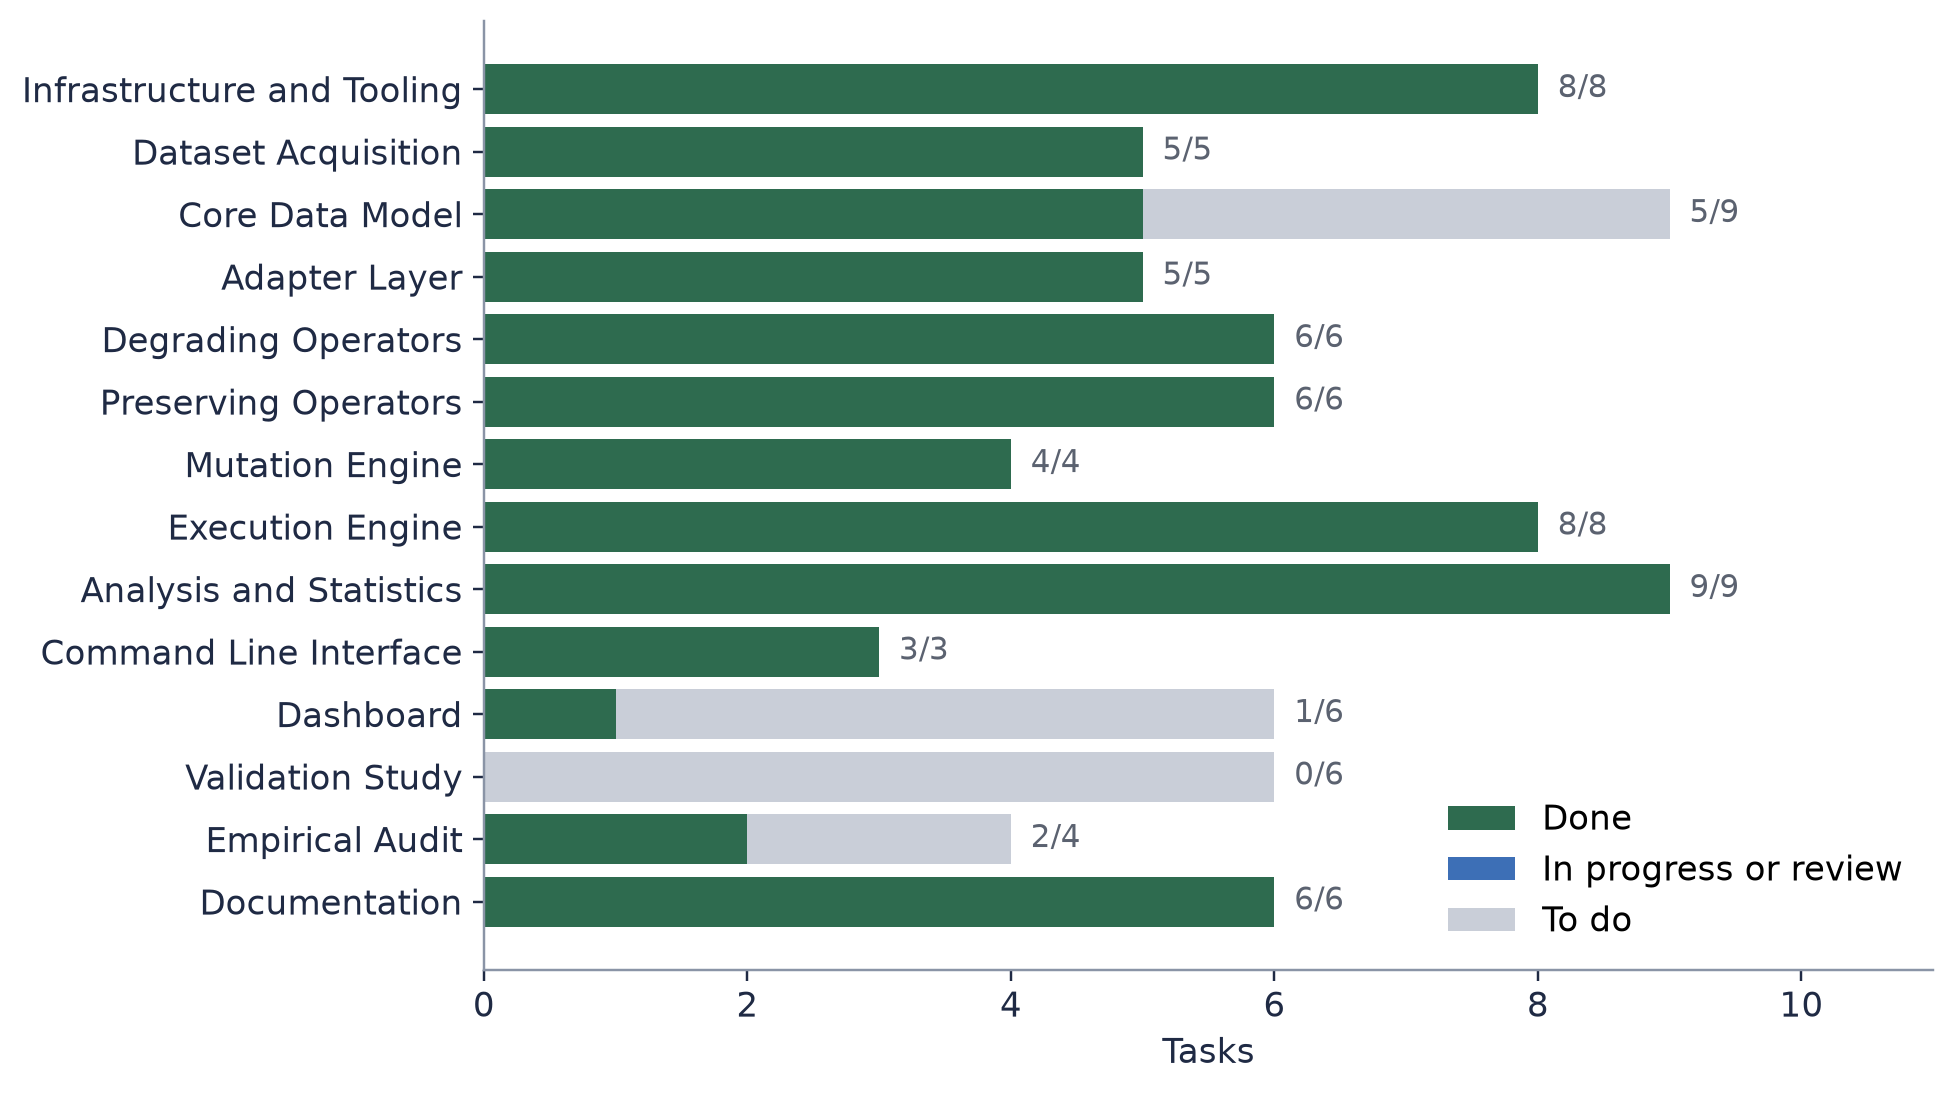
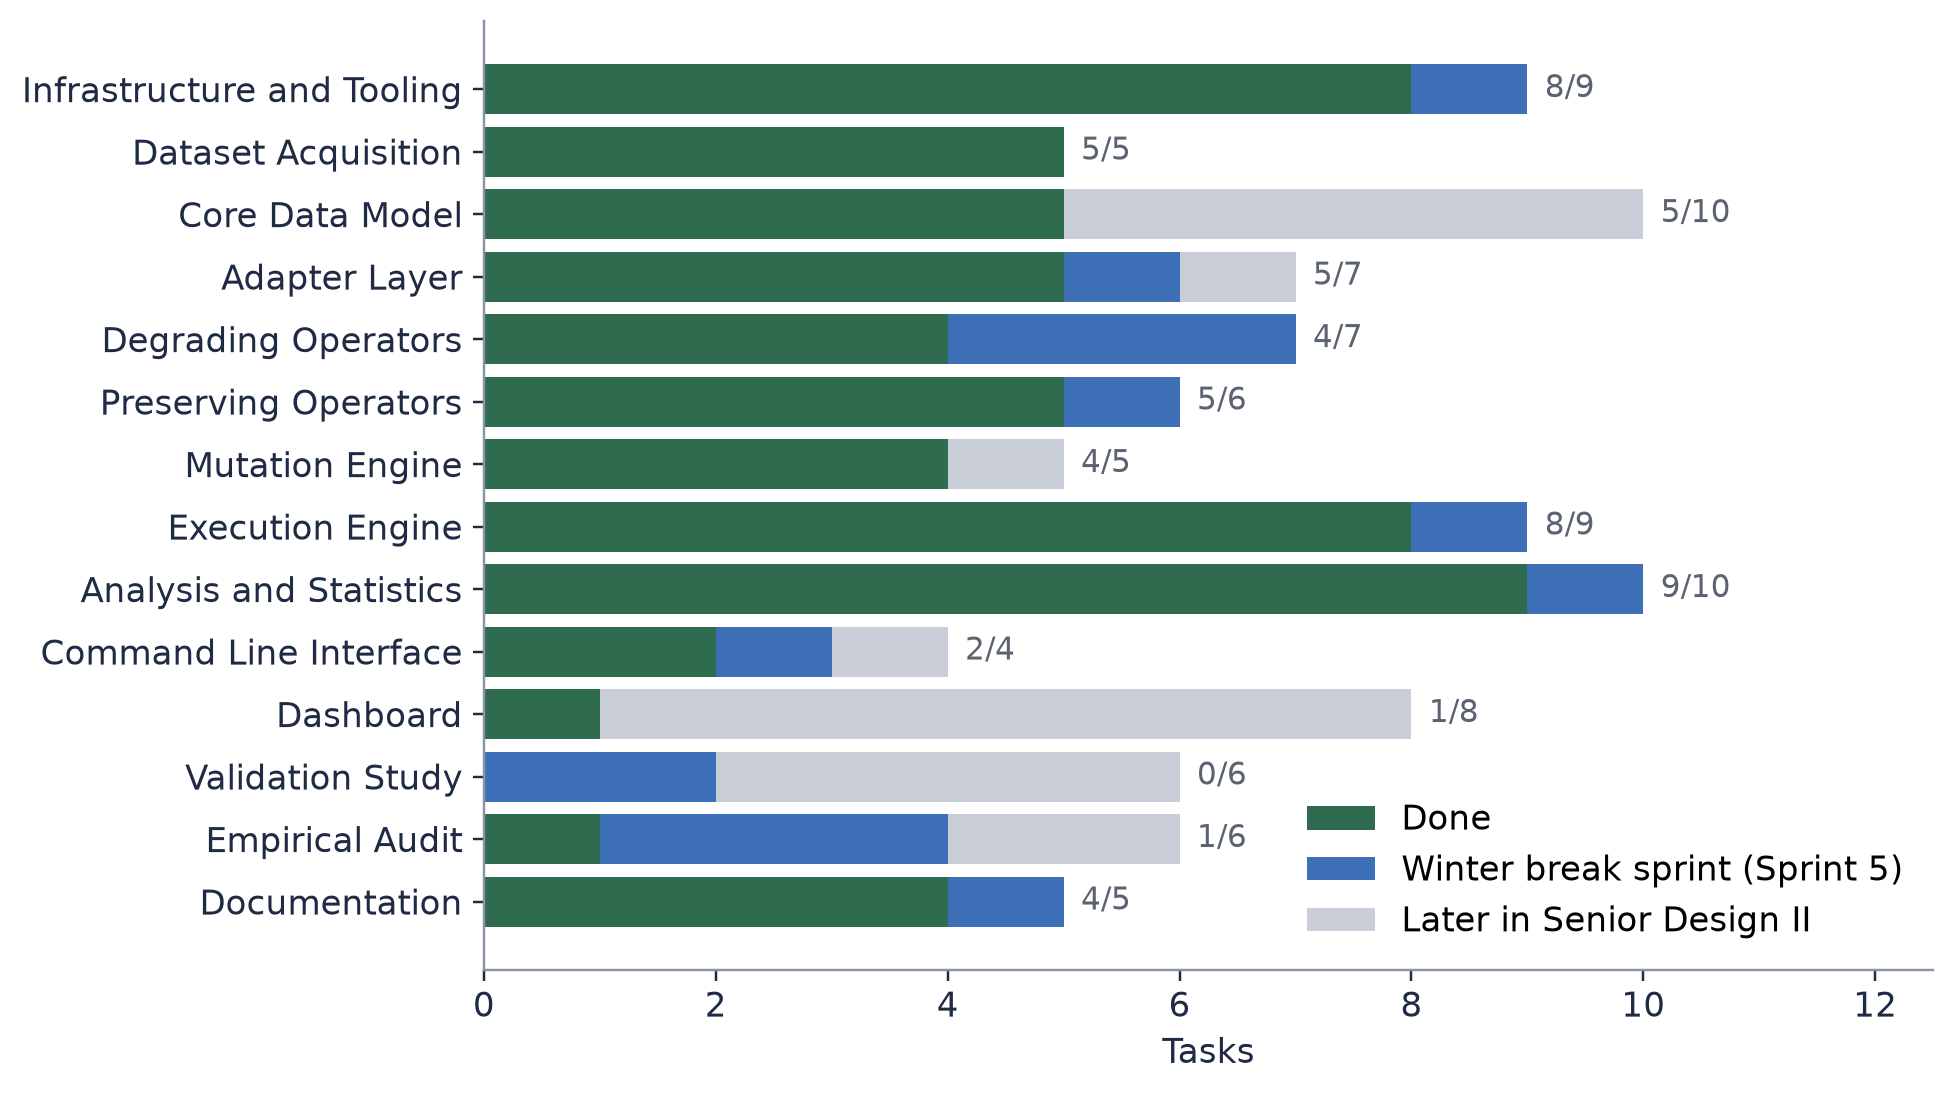
docs(fdd): charts for the winter break sprint (MTLJ-70)
Sprint 4 finishes 14 items (57 points); the pilot follow-ups and the
full audit move to Sprint 5, the winter break sprint (Jira export of
2026-11-22, 97 tasks).

diff --git a/docs/fdd/charts/make_charts.py b/docs/fdd/charts/make_charts.py
@@ -31,21 +31,21 @@ def save(fig, name):
 
 
 # --- Epic status (tasks per epic: done, active, to do) as of 2026-11-22 ---------------------
-EPICS = [
-    ("Infrastructure and Tooling", 8, 0, 0),
+EPICS = [  # (name, done by end of SD1, winter break sprint, later in SD2), Jira export 2026-11-22
+    ("Infrastructure and Tooling", 8, 1, 0),
     ("Dataset Acquisition", 5, 0, 0),
-    ("Core Data Model", 5, 0, 4),
-    ("Adapter Layer", 5, 0, 0),
-    ("Degrading Operators", 6, 0, 0),
-    ("Preserving Operators", 6, 0, 0),
-    ("Mutation Engine", 4, 0, 0),
-    ("Execution Engine", 8, 0, 0),
-    ("Analysis and Statistics", 9, 0, 0),
-    ("Command Line Interface", 3, 0, 0),
-    ("Dashboard", 1, 0, 5),
-    ("Validation Study", 0, 0, 6),
-    ("Empirical Audit", 2, 0, 2),
-    ("Documentation", 6, 0, 0),
+    ("Core Data Model", 5, 0, 5),
+    ("Adapter Layer", 5, 1, 1),
+    ("Degrading Operators", 4, 3, 0),
+    ("Preserving Operators", 5, 1, 0),
+    ("Mutation Engine", 4, 0, 1),
+    ("Execution Engine", 8, 1, 0),
+    ("Analysis and Statistics", 9, 1, 0),
+    ("Command Line Interface", 2, 1, 1),
+    ("Dashboard", 1, 0, 7),
+    ("Validation Study", 0, 2, 4),
+    ("Empirical Audit", 1, 3, 2),
+    ("Documentation", 4, 1, 0),
 ]
 
 
@@ -55,20 +55,20 @@ def epic_status():
     d, a, t = (np.array([e[i] for e in EPICS][::-1]) for i in (1, 2, 3))
     y = np.arange(len(names))
     ax.barh(y, d, color=DONE, label="Done")
-    ax.barh(y, a, left=d, color=ACTIVE, label="In progress or review")
-    ax.barh(y, t, left=d + a, color=TODO, label="To do")
+    ax.barh(y, a, left=d, color=ACTIVE, label="Winter break sprint (Sprint 5)")
+    ax.barh(y, t, left=d + a, color=TODO, label="Later in Senior Design II")
     for i in range(len(names)):
         ax.text(d[i] + a[i] + t[i] + 0.15, i, f"{d[i]}/{d[i] + a[i] + t[i]}", va="center", fontsize=10, color=MUTED)
     ax.set_yticks(y, names)
     ax.set_xlabel("Tasks")
-    ax.set_xlim(0, 11)
+    ax.set_xlim(0, 12.5)
     ax.spines[["top", "right"]].set_visible(False)
     ax.legend(loc="lower right", frameon=False)
     save(fig, "chart_epics.png")
 
 
 # --- Sprint velocity -------------------------------------------------------------------
-SPRINTS = [("Sprint 1", 41, 26), ("Sprint 2", 89, 52), ("Sprint 3", 83, 76), ("Sprint 4", 94, 81)]
+SPRINTS = [("Sprint 1", 41, 26), ("Sprint 2", 89, 52), ("Sprint 3", 83, 76), ("Sprint 4", 94, 57)]
 
 
 def velocity():
@@ -94,10 +94,10 @@ TIMELINE = [
     ("S1", date(2026, 9, 29), date(2026, 10, 13), "done", "Setup, corpus survey, interfaces, feasibility study"),
     ("S2", date(2026, 10, 13), date(2026, 10, 27), "done", "Models, loader, corpus freeze, adapters, first operators"),
     ("S3", date(2026, 10, 27), date(2026, 11, 10), "done", "DeepEval adapter, runner, cache, retries, all core statistics, CLI"),
-    ("S4", date(2026, 11, 10), date(2026, 11, 24), "done", "Filter, resume, limits, Ollama, Ragas, pilots, FDD"),
-    ("S5", date(2026, 11, 24), date(2026, 12, 8), "now", "Pilot fixes, database schema, validation protocol"),
-    ("S6", date(2027, 1, 12), date(2027, 1, 26), "sd2", "First full audit, results API, Nuxt scaffold, sampling tool"),
-    ("S7", date(2027, 1, 26), date(2027, 2, 9), "sd2", "Findings write-up, profile view, first review round"),
+    ("S4", date(2026, 11, 10), date(2026, 11, 24), "done", "Ragas, pilots, negation, Ollama, resumption, rate limits, FDD"),
+    ("S5", date(2026, 12, 7), date(2027, 1, 11), "now", "Winter break: pilot fixes, first full audit, findings"),
+    ("S6", date(2027, 1, 12), date(2027, 1, 26), "sd2", "Database, results API, Nuxt scaffold, presentation"),
+    ("S7", date(2027, 1, 26), date(2027, 2, 9), "sd2", "Profile view, first review round"),
     ("S8", date(2027, 2, 9), date(2027, 2, 23), "sd2", "Comparison view, second review round, agreement"),
     ("S9", date(2027, 2, 23), date(2027, 3, 9), "sd2", "Operator validation scores, fix or drop weak operators"),
     ("S10", date(2027, 3, 9), date(2027, 3, 30), "sd2", "Re-run the full audit with validated operators"),
@@ -119,11 +119,9 @@ def timeline():
     ax.set_xlim(mdates.date2num(date(2026, 9, 20)), mdates.date2num(date(2027, 8, 15)))
     ax.axvline(mdates.date2num(date(2026, 11, 24)), color="#b3304d", lw=1.2, ls="--")
     ax.text(mdates.date2num(date(2026, 11, 24)) + 2, len(TIMELINE) - 0.4, "FDD submitted", color="#b3304d", fontsize=9.5)
-    ax.axvspan(mdates.date2num(date(2026, 12, 8)), mdates.date2num(date(2027, 1, 12)), color="#f1f2f5")
-    ax.text(mdates.date2num(date(2026, 12, 12)), 1.0, "Winter\nbreak", fontsize=9, color=MUTED)
     ax.spines[["top", "right"]].set_visible(False)
     handles = [plt.Rectangle((0, 0), 1, 1, color=COLORS[k]) for k in ("done", "now", "sd2")]
-    ax.legend(handles, ["Done", "Last SD1 sprint", "Planned, SD2"], frameon=False,
+    ax.legend(handles, ["Done", "Winter break sprint", "Planned, SD2"], frameon=False,
               loc="upper right", fontsize=9.5)
     plt.setp(ax.get_xticklabels(), fontsize=9.5)
     save(fig, "chart_timeline.png")
